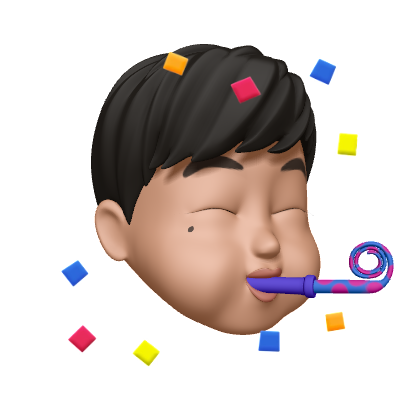
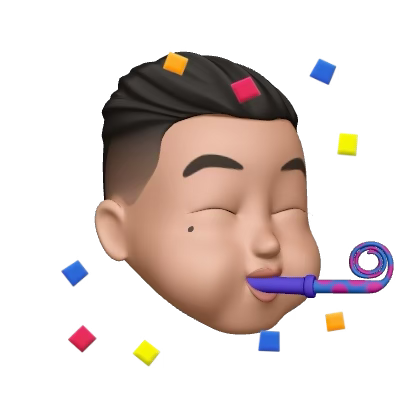
Update Memojis and colors

diff --git a/index.html b/index.html
@@ -92,7 +92,7 @@
     <div id="greeting" class="container-fluid d-flex flex-column justify-content-center p-5 pd-lr-3">
       <div>
         <div class="memoji-container text-center">
-          <img src="assets/img/memoji-phone.png" alt="memoji-phone" class="initially-hidden memoji">
+          <img src="assets/img/memoji-phone-grey.png" alt="memoji-phone" class="initially-hidden memoji">
         </div>
         <h1 class="initially-hidden text-white text-center display-1 fw-kinda-bold"></h1>
         <p class="initially-hidden text-white text-center fs-5 fw-light"></p>
@@ -112,7 +112,7 @@
         <div class="row row-cols-1 g-3 g-md-4">
           <div class="col">
             <div class="tile bg-white rounded-5 d-flex flex-column p-4-5 p-md-5 h-100"
-              style="min-height: unset !important;">
+              style="min-height: unset !important; padding-bottom: 0!important;">
               <!-- Heading -->
               <h5 style="color: var(--my-blue);">
                 A little bit about myself
@@ -124,9 +124,9 @@
                   <h2></h2>
                 </div>
                 <!-- Image -->
-                <div class="col col-md-6 d-flex align-items-center text-center m-0"
+                <div class="col col-md-6 d-flex align-items-end justify-content-center text-center m-0"
                   style="margin-top: -9vh !important; margin-bottom: 0 !important;">
-                  <img src="assets/img/memoji-laptop.png" alt="memoji-laptop" class="memoji-container w-100 m-0">
+                  <img src="assets/img/memoji-scientist.png" alt="memoji-laptop" class="memoji-container w-100 m-0">
                 </div>
               </div>
               <!-- Overlay -->
@@ -183,9 +183,9 @@
                 <!-- Images -->
                 <div class="memoji-container text-center">
                   <img src="assets/img/memoji-idea.png" alt="memoji-idea" class="initially-hidden memoji w-35-percent">
-                  <img src="assets/img/memoji-celebrate.PNG" alt="memoji-celebrate"
+                  <img src="assets/img/memoji-thumbs-up.png" alt="memoji-thumbs-up"
                     class="initially-hidden memoji w-35-percent">
-                  <img src="assets/img/memoji-thinking.png" alt="memoji-thinking"
+                  <img src="assets/img/memoji-celebrate.PNG" alt="memoji-celebrate"
                     class="initially-hidden memoji w-35-percent">
                 </div>
               </div>

diff --git a/css/style.css b/css/style.css
@@ -16,7 +16,9 @@
   --light-bg-color: white;
   /* --dark-bg-color: rgb(20, 20, 31); */
   --dark-bg-color: rgb(33, 37, 41);
-  --greeting-gradient: linear-gradient(rgb(6, 15, 33) 30%, black 90%);
+  /* --greeting-gradient: linear-gradient(rgb(6, 15, 33) 30%, black 90%); */
+  /* --greeting-gradient: linear-gradient(rgb(33, 0, 20) 30%, black 90%); */
+  --greeting-gradient: linear-gradient(rgb(32, 32, 32) 30%, black 90%);
   --nav-height: calc(1rem + 40px);
   --nav-background: rgba(240, 240, 240, 0.9);
   --nav-background-dark: rgb(55, 55, 55, 0.9);
@@ -29,6 +31,9 @@
   --my-light-purple: #9f91fe;
   --my-blueish-grey: #1f1c2a;
   --my-light-blueish-grey: #34557a;
+  --my-coral: #f95c30;
+  --my-teal: #2b9ca1;
+  --my-green: #0c9d46;
 }
 
 /* Pointer cursor */
@@ -473,7 +478,7 @@ a[class*="link-"]:hover {
   }
 
   #navbar .navbar-brand {
-    opacity: 0.85;
+    opacity: 0.87;
     transition: opacity 0.25s ease;
   }
 
@@ -634,10 +639,12 @@ h2 {
 
 /* Intro */
 #intro .memoji-container {
-  -webkit-mask-image: linear-gradient(to bottom, rgba(0, 0, 0, 1) 65%, transparent 98%);
-  mask-image: linear-gradient(to bottom, rgba(0, 0, 0, 1) 65%, transparent 98%);
+  /* -webkit-mask-image: linear-gradient(to bottom, rgba(0, 0, 0, 1) 65%, transparent 98%);
+  mask-image: linear-gradient(to bottom, rgba(0, 0, 0, 1) 65%, transparent 98%); */
   margin-top: 0 !important;
   margin-bottom: 0 !important;
+  /* filter: none; */
+  max-width: 555px;
 }
 
 /* Skills */

diff --git a/js/components/Tile.js b/js/components/Tile.js
@@ -11,7 +11,7 @@ let html = `
 <div class="col col-md-${item.md_size ?? "12"} col-lg-${item.lg_size ?? item.md_size ?? "12"}">
     <div class="tile bg-white p-4-5 p-md-5 rounded-5 h-100 d-flex flex-column justify-content-between"`;
     if (!item.img && primaryColor) html += ` 
-    style="background: linear-gradient(145deg, ${primaryColor} 20%, ${primaryColorMuted ?? primaryColor} 60%);"`; html += `>`; html += `
+    style="background: linear-gradient(145deg, ${primaryColor} 45%, ${primaryColorMuted ?? primaryColor} 80%);"`; html += `>`; html += `
         <h5 ${item.img ? "style='color: " + primaryColor + ";'" : "class='text-white'"}>
             ${item.heading}
         </h5>`; html += `
